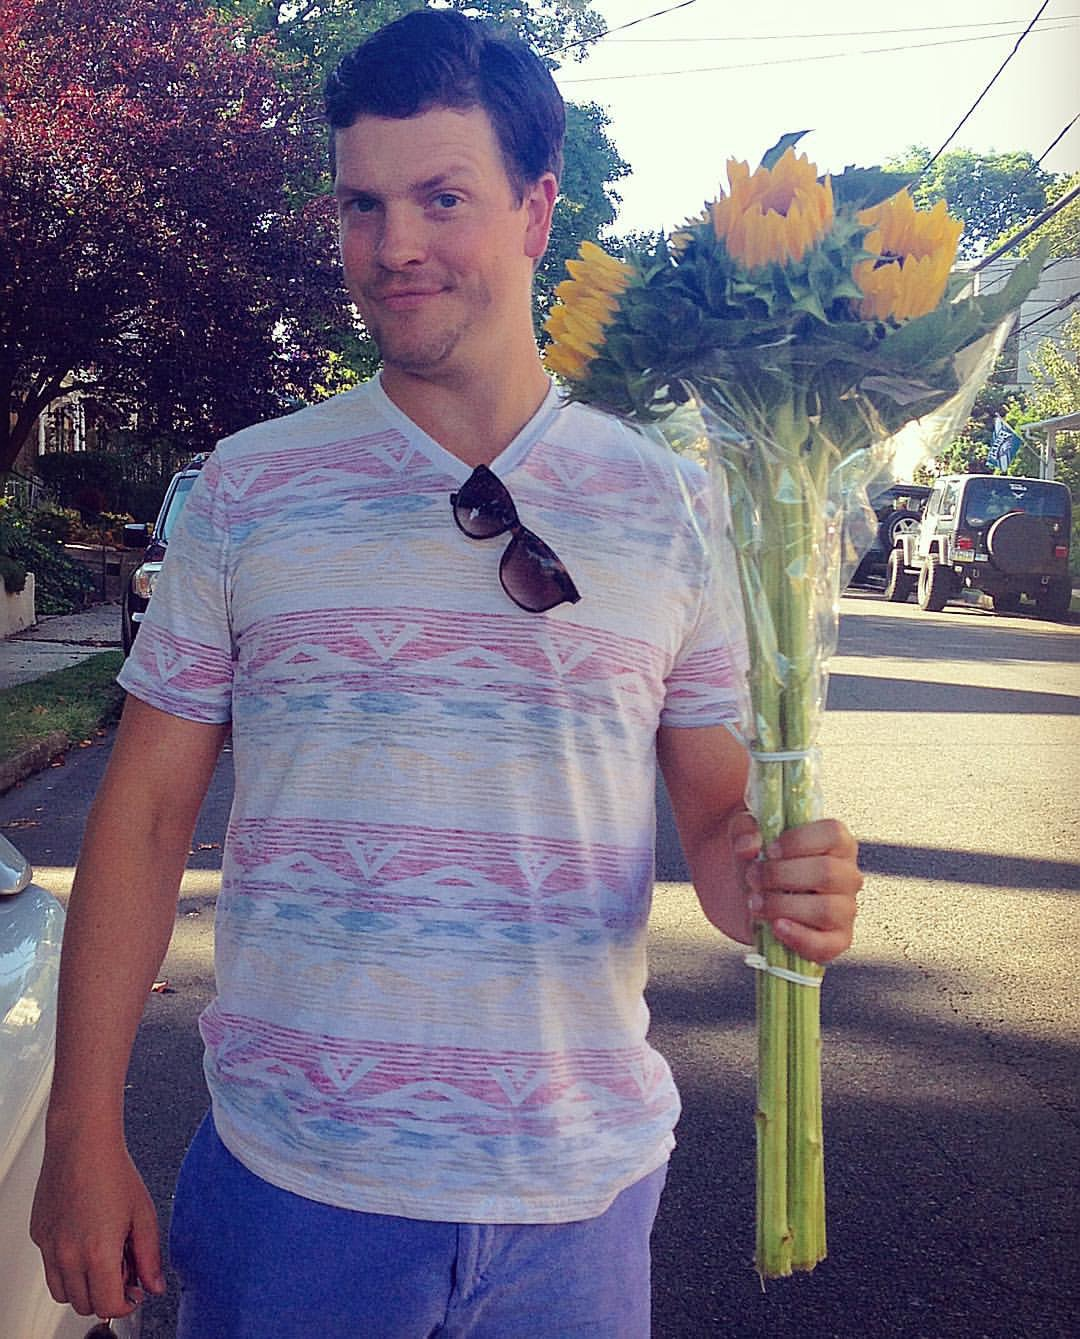
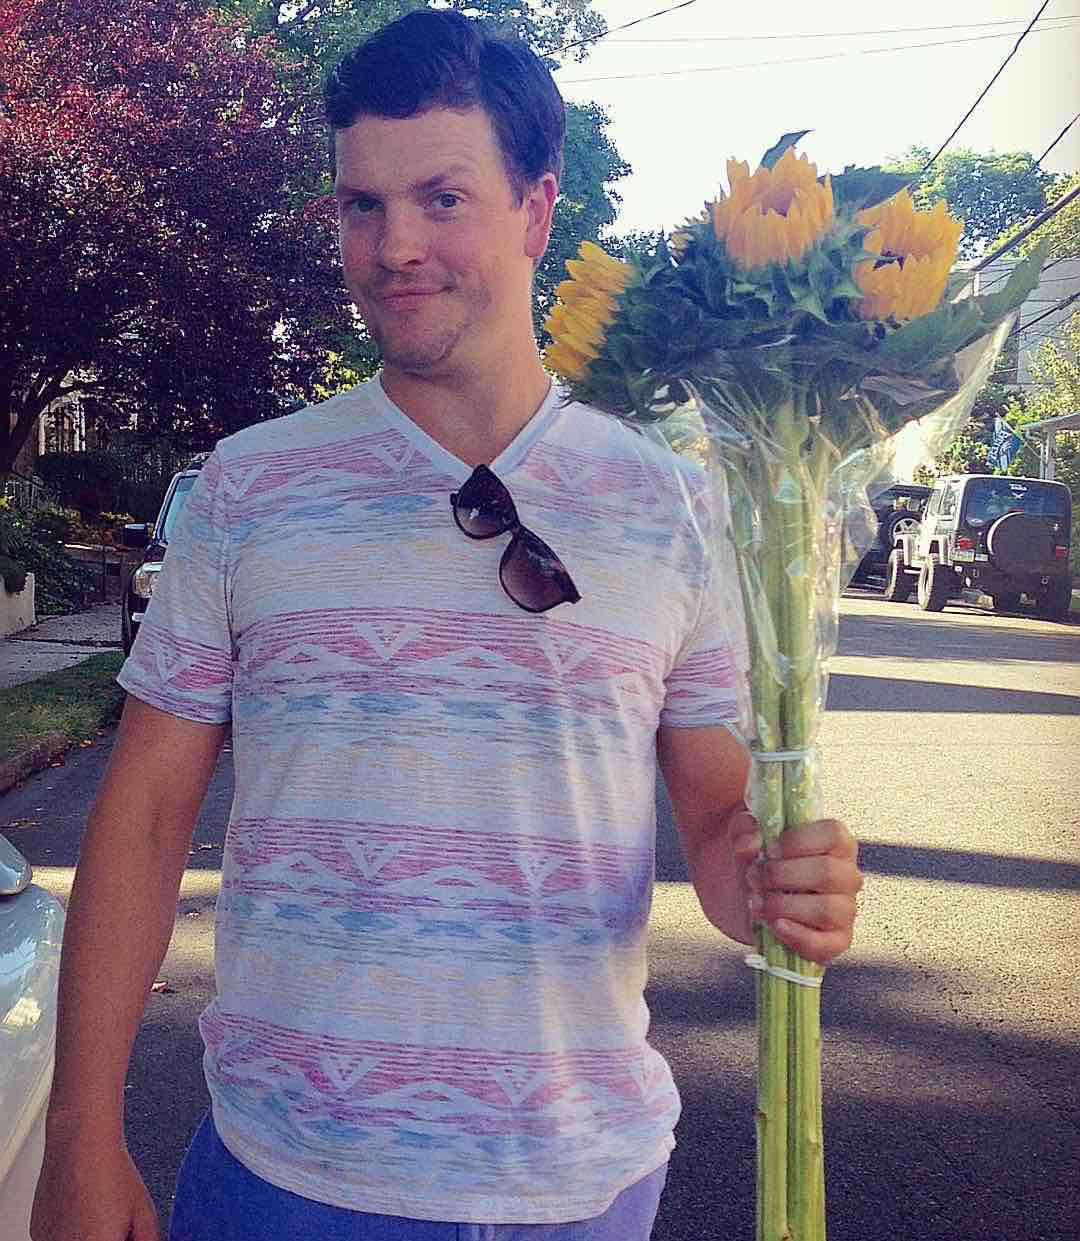
image optimization

diff --git a/js/main.js b/js/main.js
@@ -9,12 +9,12 @@
 
     $(window).load(function () {
         var events = [["Young Love", "2005", "img/events/8th-grade.jpg", "Tyler and Amanda met in middle school when they were just 11 years old. Amanda was a new student in 7th grade, and Tyler, quickly smitten, was eager to show her around."],
-                        ["High School Sweethearts", "2008", "img/events/highschool1.jpg", "After just 3 years of courtship, Tyler's crush was finally reciprocated, and Amanda agreed to go on a date at the Central Park zoo."],
+                        ["High School Sweethearts", "2008", "img/events/highschool.jpg", "After just 3 years of courtship, Tyler's crush was finally reciprocated, and Amanda agreed to go on a date at the Central Park zoo."],
                         ["Heading West", "2010", "img/events/hm-grad.jpg", "After graudating from Horace Mann, Tyler and Amanda headed west to Stanford. What a happy coincidence that they both decided to go to the same college!"],
                         ["Freshman Year", "2011", "img/events/freshman.jpg", "College was full of new people and new experiences. Tyler joined the squash team while Amanda played soccer. They spent countless hours in the library, Tyler coding for his computer science classes while Amanda studied management science and engineering."],
-                        ["Study Abroad", "2012", "img/events/abroad.png", "After 4 straight years spent by each other's side, Amanda headed off to study in Paris, and Tyler flew south to Brazil. Amidst endless nights of sobbing on long distance phone calls, they managed to find some time for fun."],
+                        ["Study Abroad", "2012", "img/events/abroad.jpg", "After 4 straight years spent by each other's side, Amanda headed off to study in Paris, and Tyler flew south to Brazil. Amidst endless nights of sobbing on long distance phone calls, they managed to find some time for fun."],
                         ["Dancing Through Life", "2013", "img/events/dancing.jpg", "After returning from abroad, Tyler and Amanda enjoyed their last few trimesters partying with friends in Sigma Nu and Pi Phi."],
-                        ["See ya Stanford!", "2014", "img/events/grad.png", "Before they new it, college was over. Tyler became a Product Manager working for a tech company in New York, and Amanda joined McKinsey & Company  as a consultant."],
+                        ["See ya Stanford!", "2014", "img/events/grad.jpg", "Before they new it, college was over. Tyler became a Product Manager working for a tech company in New York, and Amanda joined McKinsey & Company  as a consultant."],
                         ["Moving In", "2015", "img/events/moving.jpg", "After a year back home in New York, Tyler and Amanda packed their bags and moved to Brooklyn! Even though it was just across the river, it felt like the start of something big..."]];
         for (var i = 0; i < events.length; i++) {
             if (i % 2 == 0) {

diff --git a/index.html b/index.html
@@ -105,7 +105,7 @@
     <section class="no-padding black-border">
         <div class="row no-margin">
             <div class="col-md-12 no-padding">
-                <img src="img/travel.png" class="img-responsive"/>
+                <img src="img/break/travel.jpg" class="img-responsive"/>
             </div>
         </div>
     </section>
@@ -131,7 +131,7 @@
     <section class="no-padding black-border">
         <div class="row no-margin">
             <div class="col-md-12 no-padding">
-                <img src="img/costumes2.png" class="img-responsive"/>
+                <img src="img/break/costumes.jpg" class="img-responsive"/>
             </div>
         </div>
     </section>
@@ -158,7 +158,7 @@
     <section class="no-padding black-border">
         <div class="row no-margin">
             <div class="col-md-12 no-padding">
-                <img src="img/friends.png" class="img-responsive"/>
+                <img src="img/break/friends.jpg" class="img-responsive"/>
             </div>
         </div>
     </section>
@@ -184,7 +184,7 @@
     <section class="no-padding black-border">
         <div class="row no-margin">
             <div class="col-md-12 no-padding">
-                <img src="img/faceoff.png" class="img-responsive"/>
+                <img src="img/break/faceoff.jpg" class="img-responsive"/>
             </div>
         </div>
     </section>
